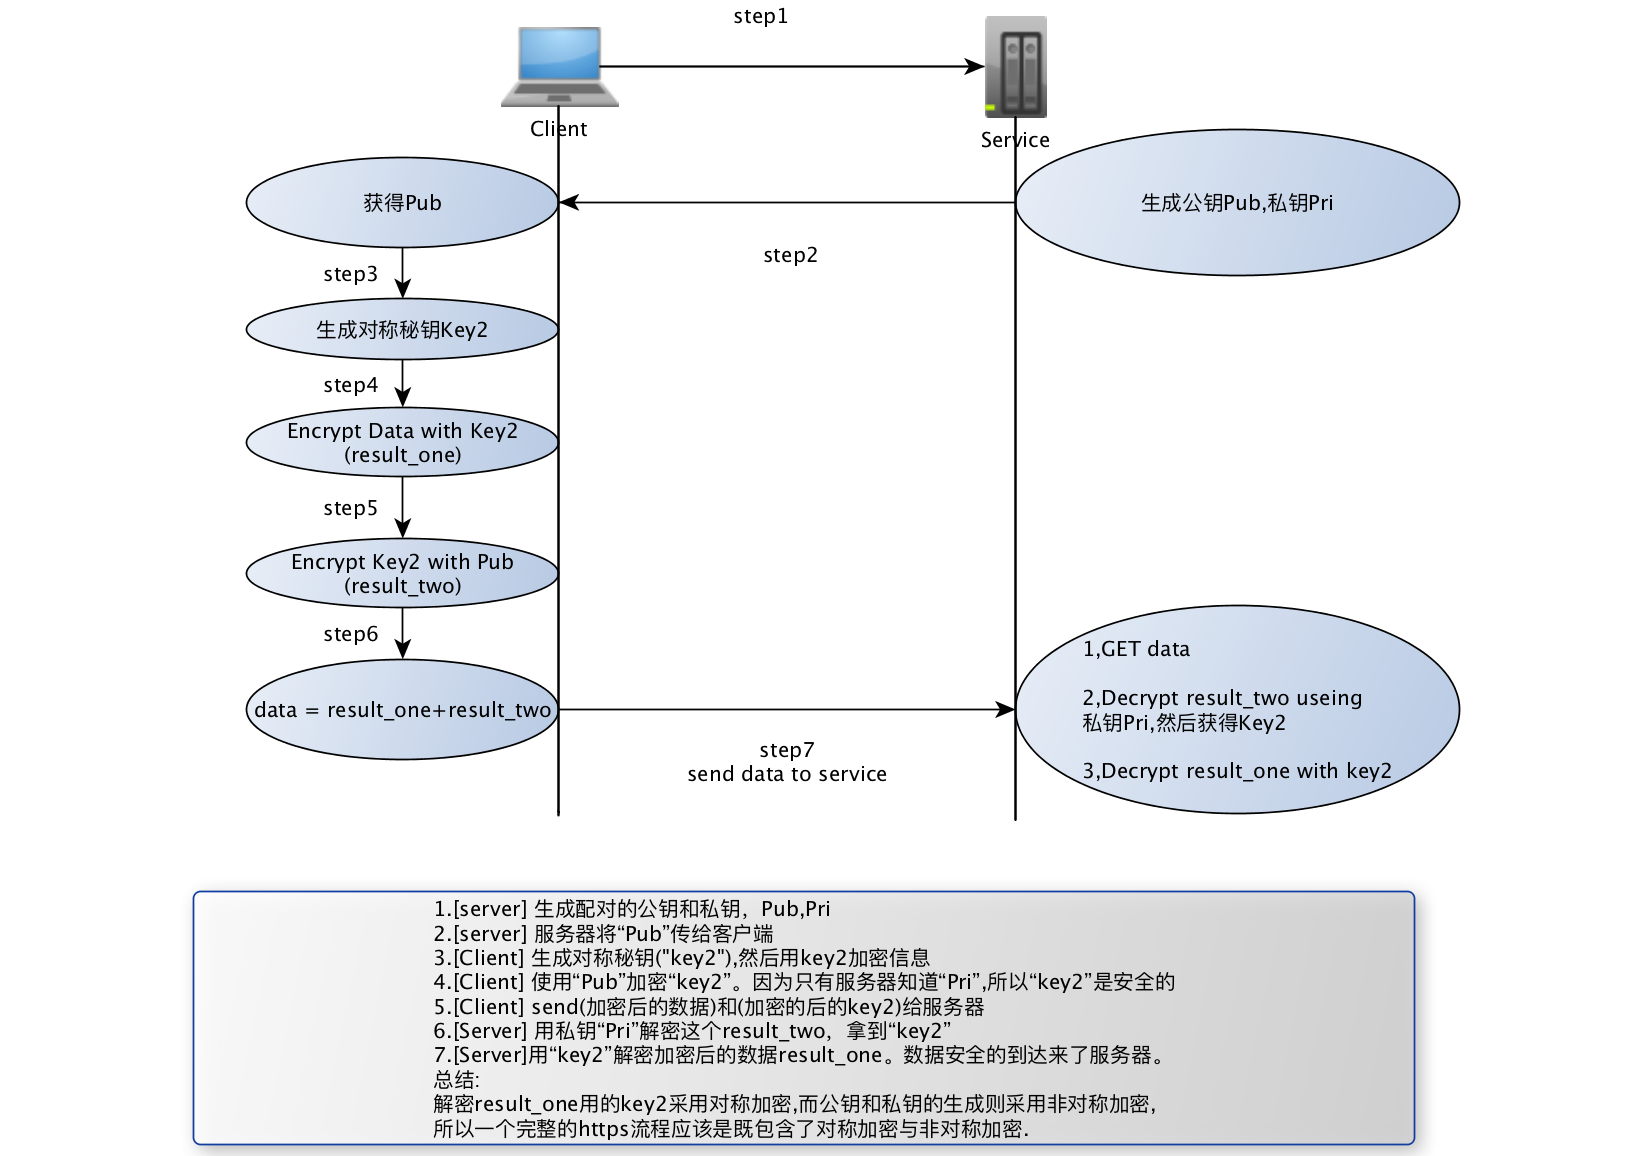
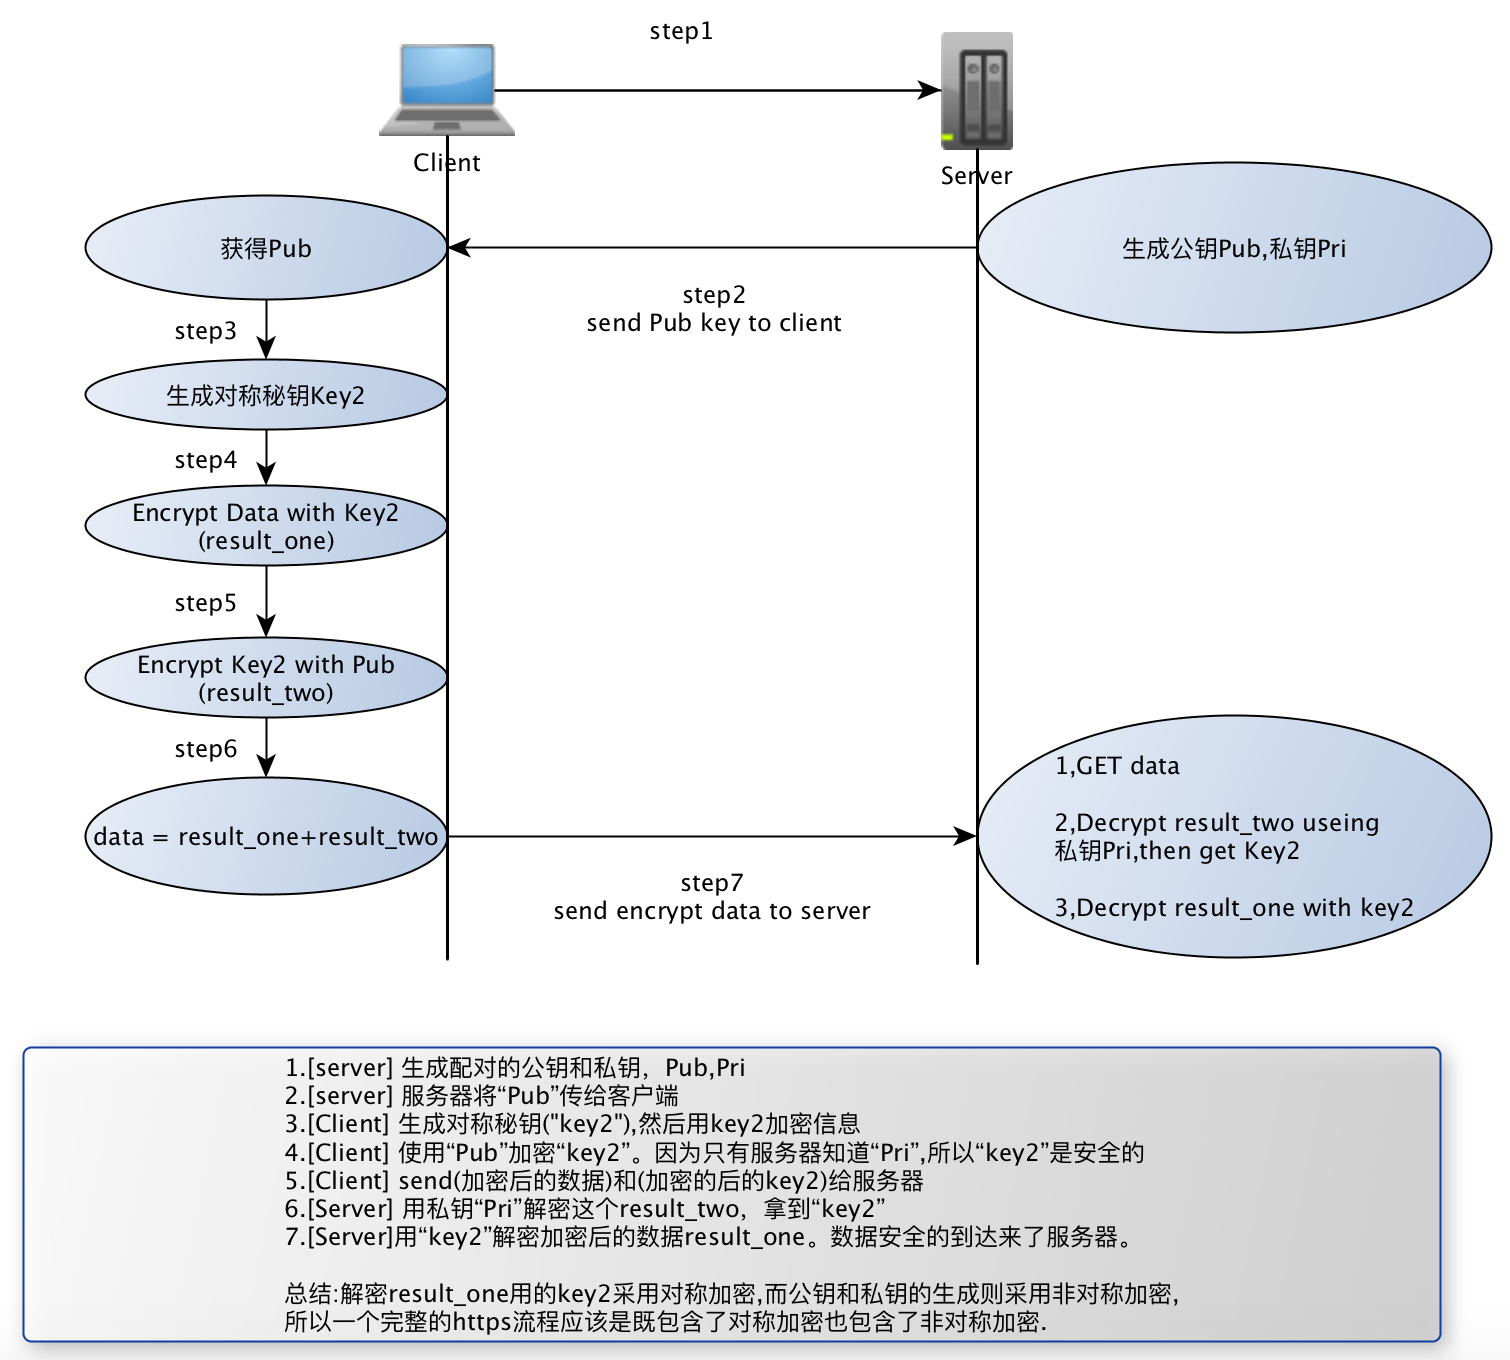
https图解

diff --git a/README.md b/README.md
@@ -53,9 +53,9 @@ python attackWiFi.py --ssid home --bssid 17:71:94:14:84:0d
 5.[Client] send(加密后的数据)和(加密的后的key2)给服务器
 6.[Server] 用私钥“Pri”解密这个result_two，拿到“key2”
 7.[Server]用“key2”解密加密后的数据result_one。数据安全的到达来了服务器。
-总结:
-解密result_one用的key2采用对称加密,而公钥和私钥的生成则采用非对称加密,
-所以一个完整的https流程应该是既包含了对称加密与非对称加密.
+
+总结:解密result_one用的key2采用对称加密,而公钥和私钥的生成则采用非对称加密,
+所以一个完整的https流程应该是既包含了对称加密也包含了非对称加密.
 ```
 
 
